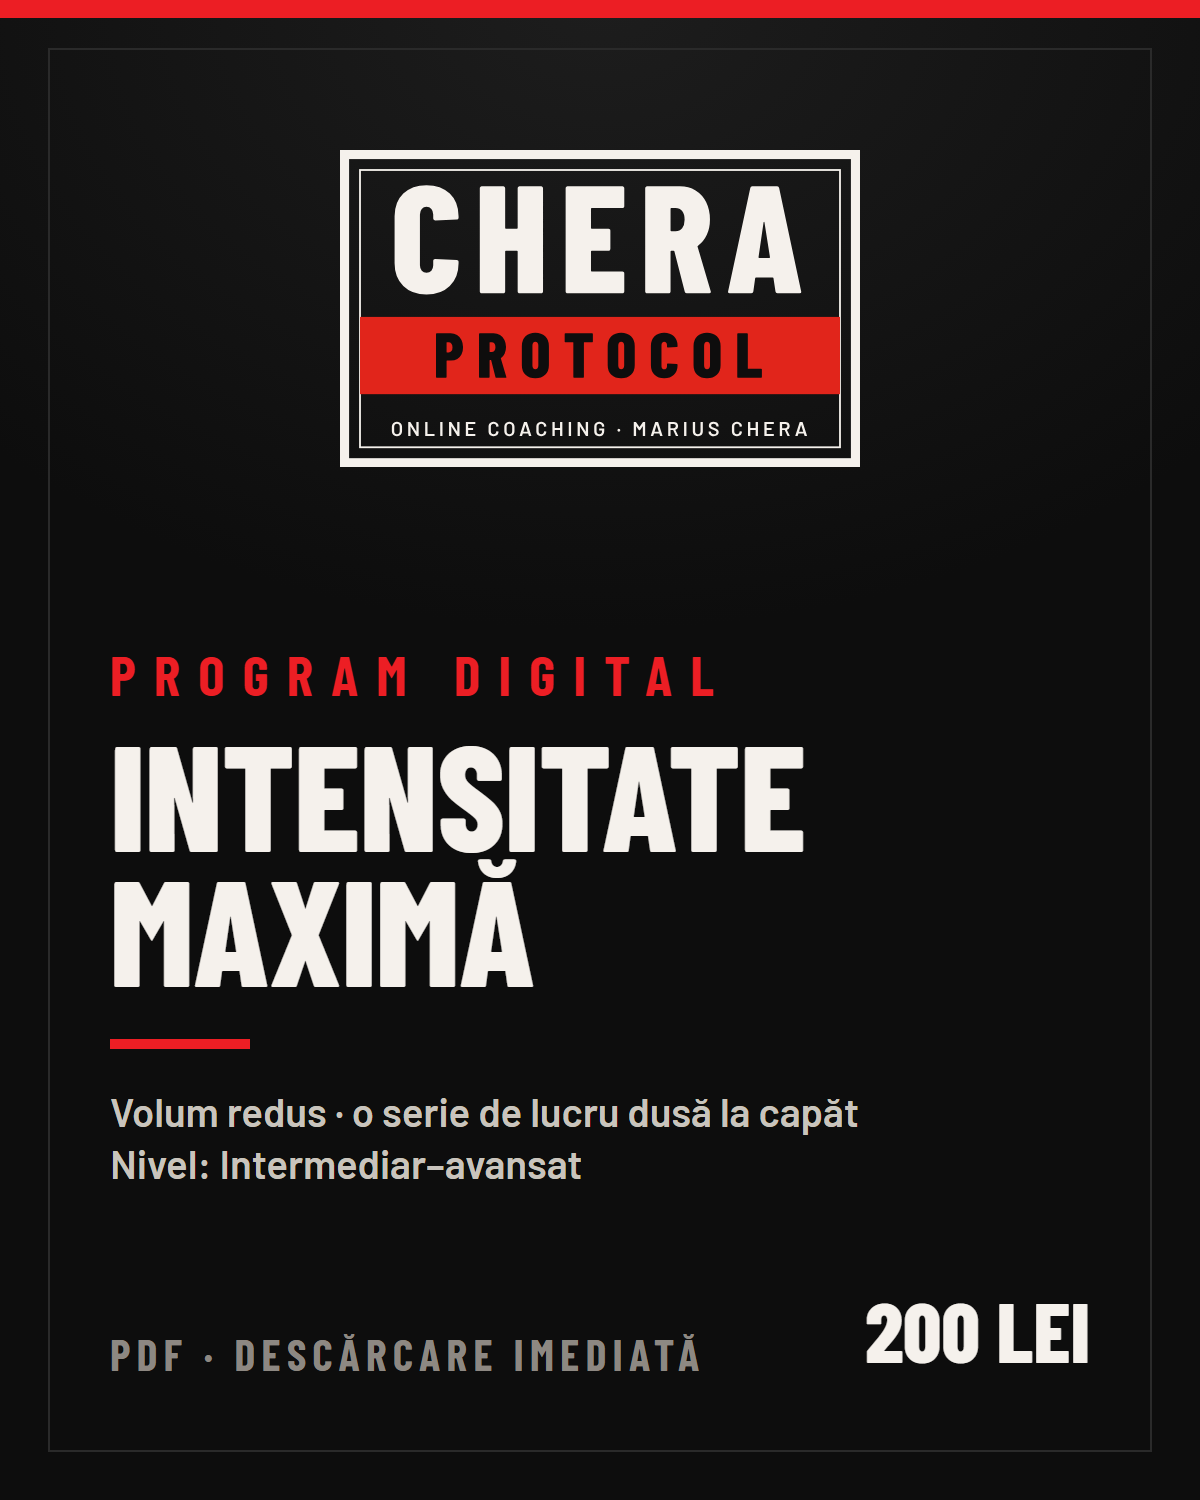
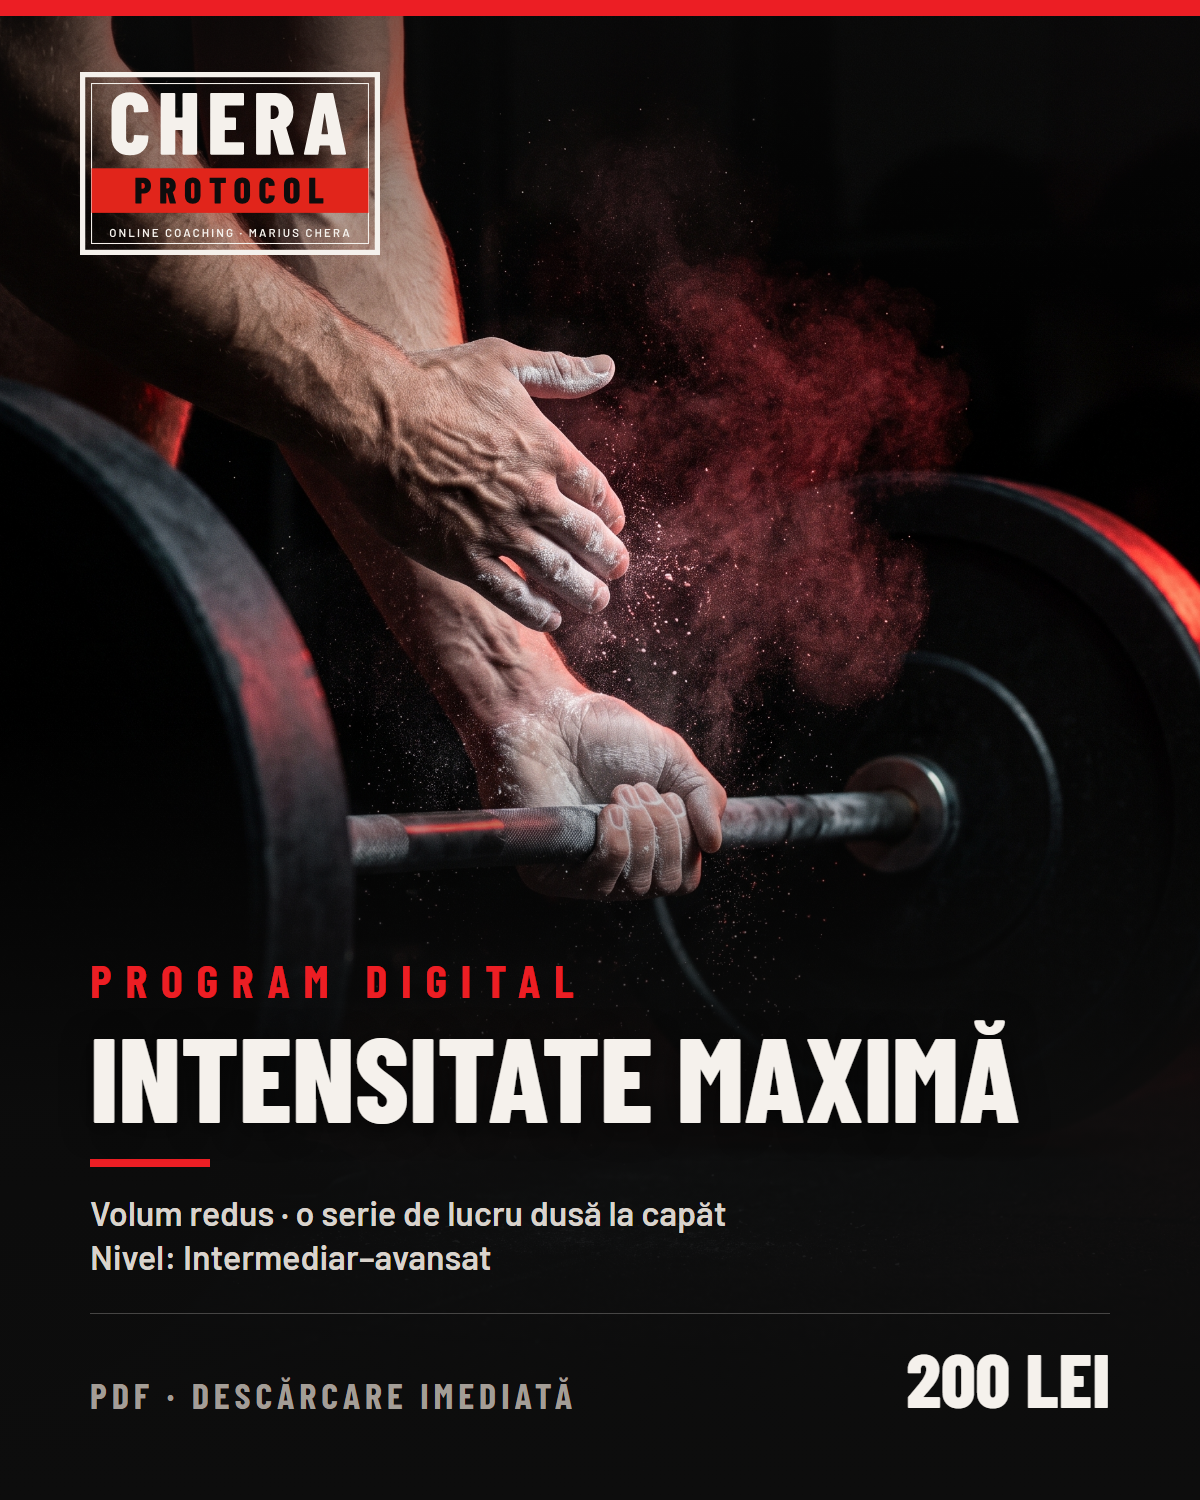
Chera: poze AI (Gemini) pe programe, card Certificari simplu, pagina fara diplome

diff --git a/chera-coaching/site/pagini/certificari.html b/chera-coaching/site/pagini/certificari.html
@@ -6,8 +6,7 @@
   <li><strong>Absolvent de facultate de sport</strong> · studii superioare în educație fizică și sport</li>
 </ul>
 
-<h2>Diplomele</h2>
-<p>[Aici intră pozele diplomelor și certificatelor, câte una pe rând, cu titlul, instituția și anul sub fiecare. Le adaug imediat ce le primesc.]</p>
+<p>Diplomele și certificatele în original nu le public aici. Dacă vrei să le vezi, scrie-mi și ți le trimit pe e-mail.</p>
 
 <h2>Rezultate care vorbesc singure</h2>
 <ul>
